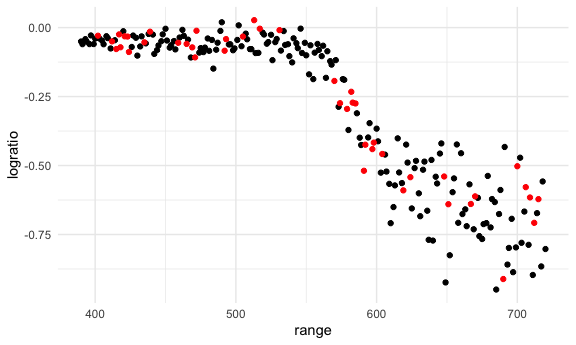
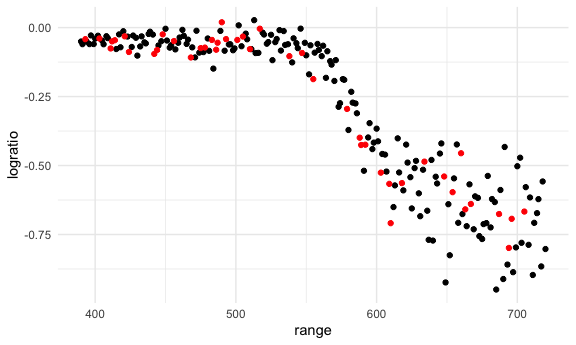
repeated cv splits for lidar data

diff --git a/02_cross_validation.md b/02_cross_validation.md
@@ -76,16 +76,84 @@ Do a model comparison
 rmse(linear_mod, test_df)
 ```
 
-    ## [1] 0.1114619
+    ## [1] 0.1075082
 
 ``` r
 rmse(smooth_mod, test_df)
 ```
 
-    ## [1] 0.07057548
+    ## [1] 0.06622358
 
 ``` r
 rmse(wiggly_mod, test_df)
 ```
 
-    ## [1] 0.0779629
+    ## [1] 0.06254013
+
+## Repeat a bunch of times
+
+Use some nice tools
+
+``` r
+cv_df = 
+  crossv_mc(lidar, 100)
+
+cv_df |> pull(train) |> nth(3) |> as_tibble()
+```
+
+    ## # A tibble: 176 × 2
+    ##    range logratio
+    ##    <dbl>    <dbl>
+    ##  1   391  -0.0601
+    ##  2   393  -0.0419
+    ##  3   394  -0.0510
+    ##  4   396  -0.0599
+    ##  5   397  -0.0284
+    ##  6   400  -0.0399
+    ##  7   402  -0.0294
+    ##  8   405  -0.0476
+    ##  9   406  -0.0604
+    ## 10   408  -0.0312
+    ## # ℹ 166 more rows
+
+``` r
+cv_df = 
+  crossv_mc(lidar, 100) |> 
+  mutate(train = map(train, as_tibble),
+         test = map(test, as_tibble)
+         )
+```
+
+let’s fit models and get rmses for these
+
+``` r
+cv_df = 
+  cv_df |> 
+  mutate(
+    linear_fit = map(train, \(df) lm(logratio ~ range, data = df)),
+    smooth_fit = map(train, \(df) gam(logratio ~ s(range), data = df)),
+    wiggly_fit = map(train, \(df) gam(logratio ~ s(range, k = 30), sp = 10e-6, data = df))
+  ) |> 
+  mutate(
+    rmse_linear = map2_dbl(linear_fit, test, rmse),
+    rmse_smooth = map2_dbl(smooth_fit, test, rmse),
+    rmse_wiggly = map2_dbl(wiggly_fit, test, rmse)
+  )
+```
+
+Look at this!!
+
+``` r
+cv_df |> 
+  select(starts_with("rmse_")) |> 
+  pivot_longer(
+    everything(),
+    names_to = "model",
+    names_prefix = "rmse_",
+    values_to = "rmse"
+  ) |> 
+  ggplot(aes(x = model, y = rmse)) + 
+  geom_violin()
+```
+
+<img src="02_cross_validation_files/figure-gfm/unnamed-chunk-11-1.png" alt="" width="90%" />
